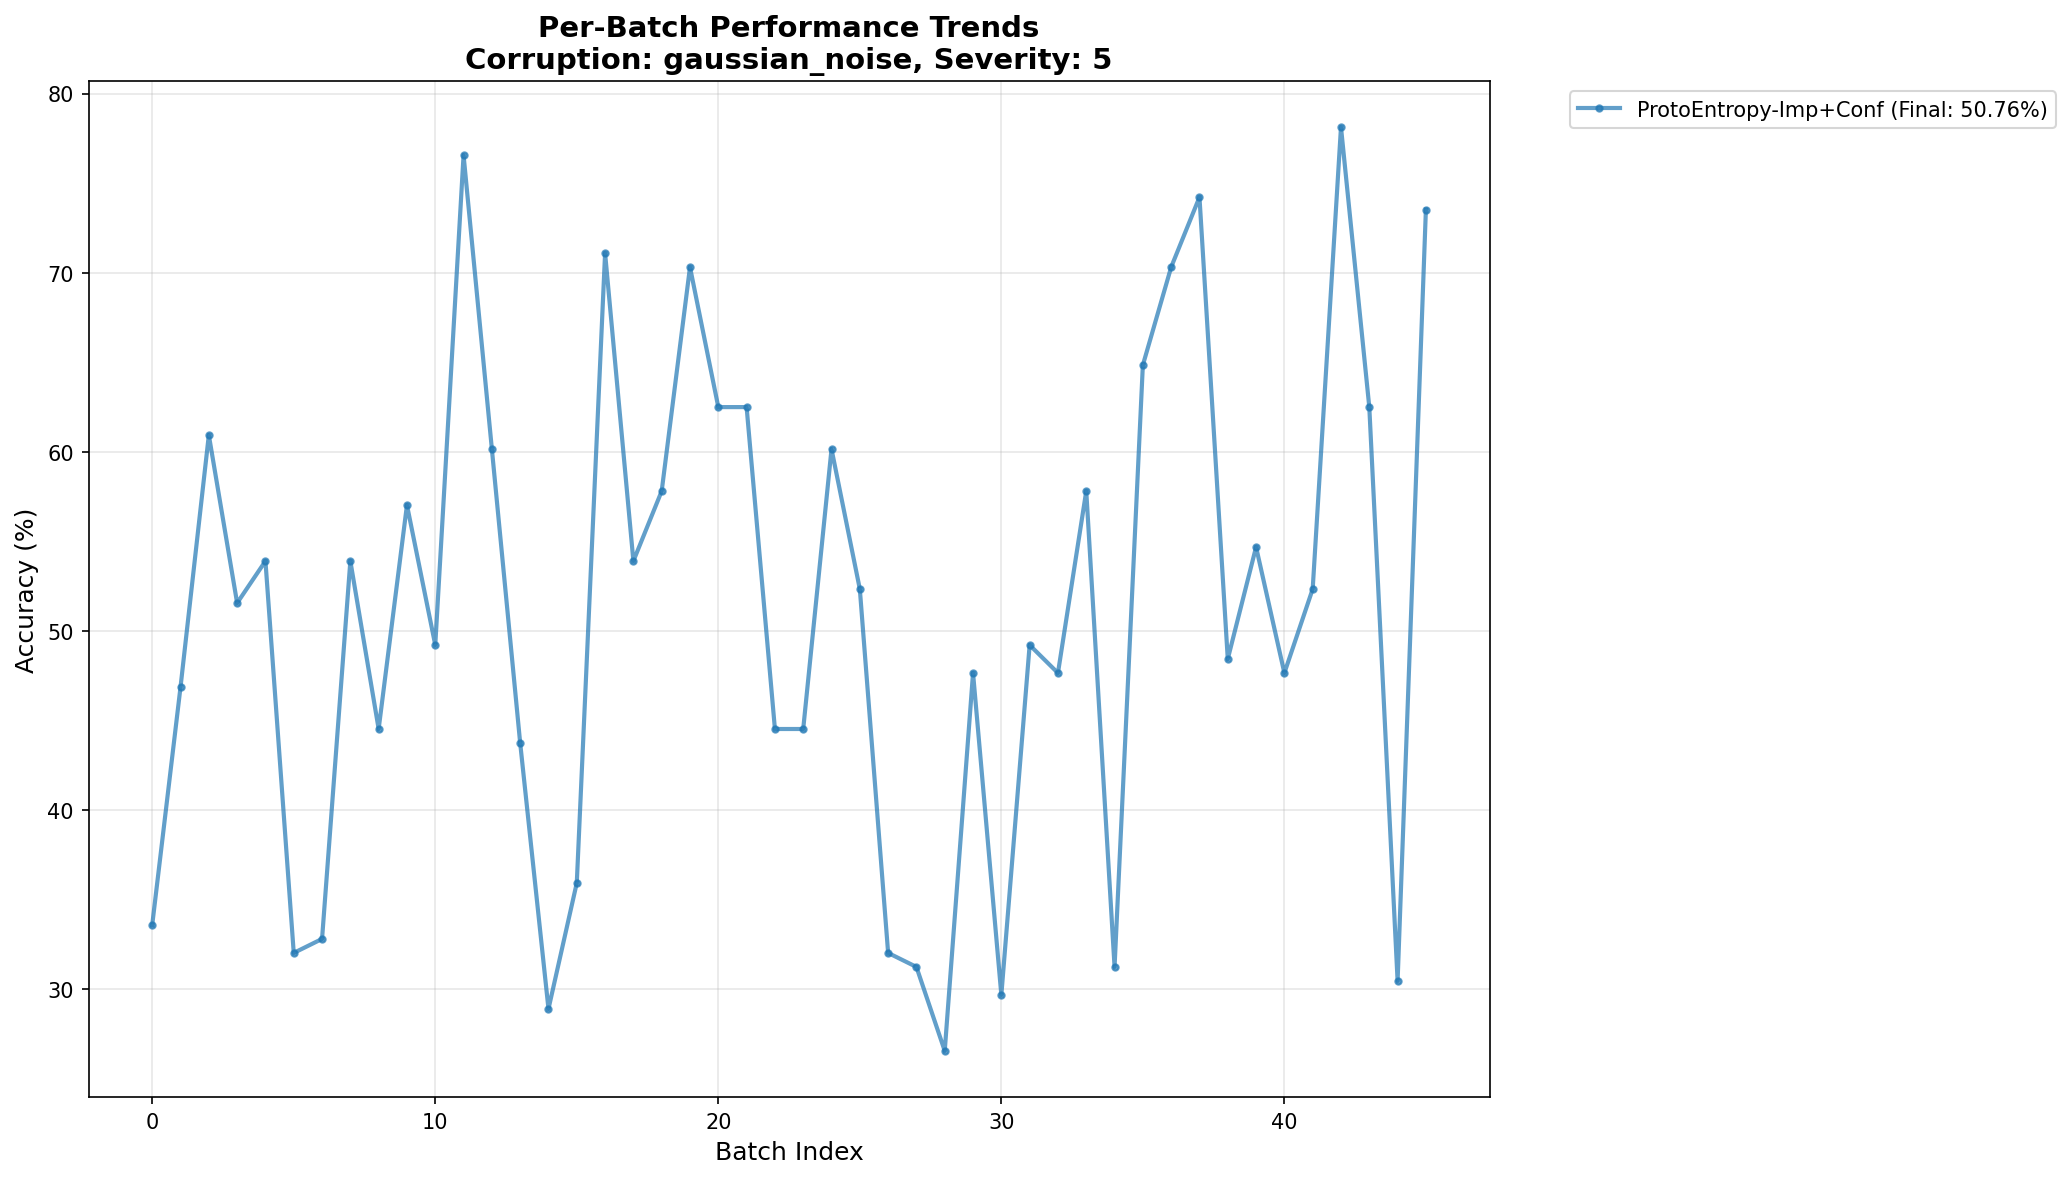
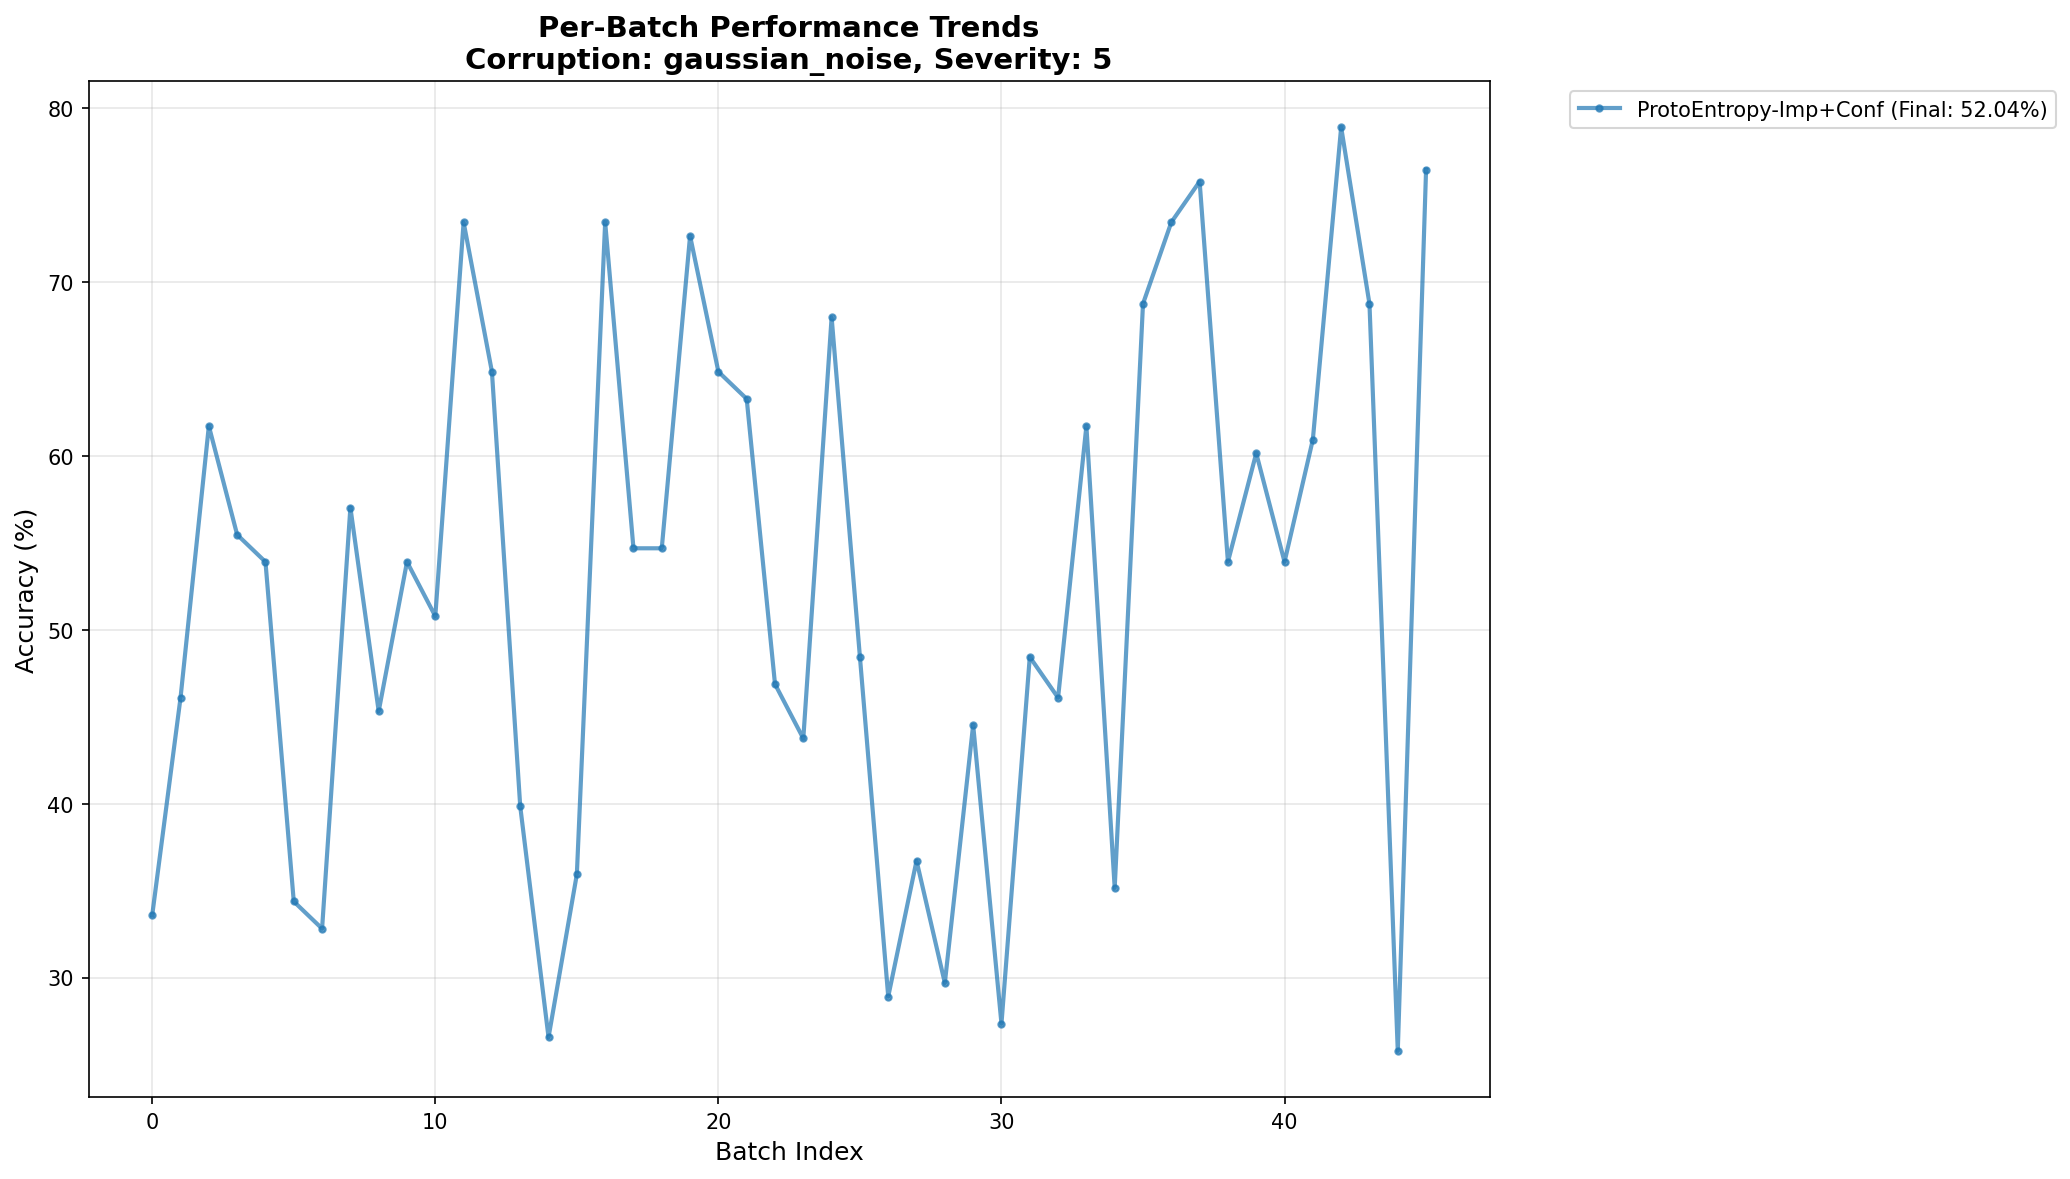
add attention biass updates

diff --git a/run_inference.py b/run_inference.py
@@ -86,7 +86,8 @@ def setup_proto_entropy(model, use_importance=False, use_confidence=False,
                         reset_mode=None, reset_frequency=10, 
                         confidence_threshold=0.7, ema_alpha=0.999,
                         use_geometric_filter=False, geo_filter_threshold=0.3,
-                        consensus_strategy='max', consensus_ratio=0.5):
+                        consensus_strategy='max', consensus_ratio=0.5,
+                        adaptation_mode='layernorm_only'):
     """Set up Prototype Entropy adaptation (without threshold).
     
     Args:
@@ -99,9 +100,13 @@ def setup_proto_entropy(model, use_importance=False, use_confidence=False,
         geo_filter_threshold: Minimum similarity to ANY prototype to be considered reliable
         consensus_strategy: How to aggregate sub-prototypes ('max', 'mean', 'median', 'top_k_mean', 'weighted_mean')
         consensus_ratio: For 'top_k_mean', fraction of sub-prototypes to use
+        adaptation_mode: What parameters to adapt ('layernorm_only', 'layernorm_proto', etc.)
     """
-    model = proto_entropy.configure_model(model)
-    params, param_names = proto_entropy.collect_params(model)
+    model = proto_entropy.configure_model(model, adaptation_mode=adaptation_mode)
+    params, param_names = proto_entropy.collect_params(model, adaptation_mode=adaptation_mode)
+    
+    print(f"Adapting {len(params)} parameter groups: {', '.join(param_names[:5])}...")
+    
     optimizer = setup_optimizer(params)
     proto_model = proto_entropy.ProtoEntropy(
         model,
@@ -385,7 +390,8 @@ def run_unified_inference(model_path, gpu_id='0', corruption=None, severity=1, m
                          use_pre_generated=True, use_clean_fisher=False, proto_threshold=None,
                          reset_mode=None, reset_frequency=10, confidence_threshold=0.7, ema_alpha=0.999,
                          use_geometric_filter=False, geo_filter_threshold=0.3, output_dir='./plots',
-                         consensus_strategy='max', consensus_ratio=0.5):
+                         consensus_strategy='max', consensus_ratio=0.5,
+                         adaptation_mode='layernorm_only'):
     # Set GPU
     os.environ['CUDA_VISIBLE_DEVICES'] = gpu_id
     print(f'Using GPU: {os.environ["CUDA_VISIBLE_DEVICES"]}')
@@ -510,13 +516,15 @@ def run_unified_inference(model_path, gpu_id='0', corruption=None, severity=1, m
         # Setup ProtoEntropy (without threshold)
         filter_info = f", geo_filter={use_geometric_filter}" if use_geometric_filter else ""
         consensus_info = f", consensus={consensus_strategy}" if consensus_strategy != 'max' else ""
-        print(f"Setting up ProtoEntropy (reset_mode={reset_mode}, freq={reset_frequency} batches{filter_info}{consensus_info})...")
+        adapt_info = f", adapt={adaptation_mode}" if adaptation_mode != 'layernorm_only' else ""
+        print(f"Setting up ProtoEntropy (reset_mode={reset_mode}, freq={reset_frequency} batches{filter_info}{consensus_info}{adapt_info})...")
         proto_model = setup_proto_entropy(base_model, use_importance=False, use_confidence=False,
                                          reset_mode=reset_mode, reset_frequency=reset_frequency,
                                          confidence_threshold=confidence_threshold, ema_alpha=ema_alpha,
                                          use_geometric_filter=use_geometric_filter, 
                                          geo_filter_threshold=geo_filter_threshold,
-                                         consensus_strategy=consensus_strategy, consensus_ratio=consensus_ratio)
+                                         consensus_strategy=consensus_strategy, consensus_ratio=consensus_ratio,
+                                         adaptation_mode=adaptation_mode)
 
         if hasattr(proto_model, 'reset_geo_filter_stats'):
             proto_model.reset_geo_filter_stats()
@@ -551,13 +559,15 @@ def run_unified_inference(model_path, gpu_id='0', corruption=None, severity=1, m
         # Setup ProtoEntropy with importance weighting
         filter_info = f", geo_filter={use_geometric_filter}" if use_geometric_filter else ""
         consensus_info = f", consensus={consensus_strategy}" if consensus_strategy != 'max' else ""
-        print(f"Setting up ProtoEntropy+Importance (reset_mode={reset_mode}, freq={reset_frequency}{filter_info}{consensus_info})...")
+        adapt_info = f", adapt={adaptation_mode}" if adaptation_mode != 'layernorm_only' else ""
+        print(f"Setting up ProtoEntropy+Importance (reset_mode={reset_mode}, freq={reset_frequency}{filter_info}{consensus_info}{adapt_info})...")
         proto_model = setup_proto_entropy(base_model, use_importance=True, use_confidence=False,
                                          reset_mode=reset_mode, reset_frequency=reset_frequency,
                                          confidence_threshold=confidence_threshold, ema_alpha=ema_alpha,
                                          use_geometric_filter=use_geometric_filter, 
                                          geo_filter_threshold=geo_filter_threshold,
-                                         consensus_strategy=consensus_strategy, consensus_ratio=consensus_ratio)
+                                         consensus_strategy=consensus_strategy, consensus_ratio=consensus_ratio,
+                                         adaptation_mode=adaptation_mode)
 
         if hasattr(proto_model, 'reset_geo_filter_stats'):
             proto_model.reset_geo_filter_stats()
@@ -592,13 +602,15 @@ def run_unified_inference(model_path, gpu_id='0', corruption=None, severity=1, m
         # Setup ProtoEntropy with confidence weighting
         filter_info = f", geo_filter={use_geometric_filter}" if use_geometric_filter else ""
         consensus_info = f", consensus={consensus_strategy}" if consensus_strategy != 'max' else ""
-        print(f"Setting up ProtoEntropy+Confidence (reset_mode={reset_mode}, freq={reset_frequency}{filter_info}{consensus_info})...")
+        adapt_info = f", adapt={adaptation_mode}" if adaptation_mode != 'layernorm_only' else ""
+        print(f"Setting up ProtoEntropy+Confidence (reset_mode={reset_mode}, freq={reset_frequency}{filter_info}{consensus_info}{adapt_info})...")
         proto_model = setup_proto_entropy(base_model, use_importance=False, use_confidence=True,
                                          reset_mode=reset_mode, reset_frequency=reset_frequency,
                                          confidence_threshold=confidence_threshold, ema_alpha=ema_alpha,
                                          use_geometric_filter=use_geometric_filter, 
                                          geo_filter_threshold=geo_filter_threshold,
-                                         consensus_strategy=consensus_strategy, consensus_ratio=consensus_ratio)
+                                         consensus_strategy=consensus_strategy, consensus_ratio=consensus_ratio,
+                                         adaptation_mode=adaptation_mode)
 
         if hasattr(proto_model, 'reset_geo_filter_stats'):
             proto_model.reset_geo_filter_stats()
@@ -633,13 +645,15 @@ def run_unified_inference(model_path, gpu_id='0', corruption=None, severity=1, m
         # Setup ProtoEntropy with both importance and confidence weighting
         filter_info = f", geo_filter={use_geometric_filter}" if use_geometric_filter else ""
         consensus_info = f", consensus={consensus_strategy}" if consensus_strategy != 'max' else ""
-        print(f"Setting up ProtoEntropy Imp+Conf (reset_mode={reset_mode}, freq={reset_frequency}{filter_info}{consensus_info})...")
+        adapt_info = f", adapt={adaptation_mode}" if adaptation_mode != 'layernorm_only' else ""
+        print(f"Setting up ProtoEntropy Imp+Conf (reset_mode={reset_mode}, freq={reset_frequency}{filter_info}{consensus_info}{adapt_info})...")
         proto_model = setup_proto_entropy(base_model, use_importance=True, use_confidence=True,
                                          reset_mode=reset_mode, reset_frequency=reset_frequency,
                                          confidence_threshold=confidence_threshold, ema_alpha=ema_alpha,
                                          use_geometric_filter=use_geometric_filter, 
                                          geo_filter_threshold=geo_filter_threshold,
-                                         consensus_strategy=consensus_strategy, consensus_ratio=consensus_ratio)
+                                         consensus_strategy=consensus_strategy, consensus_ratio=consensus_ratio,
+                                         adaptation_mode=adaptation_mode)
 
         # Reset stats before evaluation
         if hasattr(proto_model, 'reset_geo_filter_stats'):
@@ -1042,6 +1056,24 @@ if __name__ == '__main__':
         help='For top_k_mean consensus: fraction of sub-prototypes to use (default: 0.5 = top 50%%)'
     )
     
+    parser.add_argument(
+        '--adaptation-mode',
+        type=str,
+        default='layernorm_only',
+        choices=['layernorm_only', 'layernorm_proto', 'layernorm_proto_patch', 
+                 'layernorm_proto_last', 'layernorm_attn_bias', 'layernorm_last_block', 
+                 'full_proto', 'all_adaptive'],
+        help='What parameters to adapt during TTA:\n'
+             'layernorm_only (default) - Only LayerNorms (safest)\n'
+             'layernorm_proto - LayerNorms + Prototype vectors\n'
+             'layernorm_proto_patch - LayerNorms + Prototypes + Patch selection\n'
+             'layernorm_proto_last - LayerNorms + Prototypes + Last layer\n'
+             'layernorm_attn_bias - LayerNorms + Attention biases\n'
+             'layernorm_last_block - LayerNorms + Last transformer blocks\n'
+             'full_proto - Prototypes + Patch select + Last layer (no backbone)\n'
+             'all_adaptive - Everything except backbone features'
+    )
+    
     args = parser.parse_args()
     
     # Handle no-corruption flag
@@ -1059,4 +1091,4 @@ if __name__ == '__main__':
                          use_pre_generated, args.use_clean_fisher, args.proto_threshold,
                          args.reset_mode, args.reset_frequency, args.confidence_threshold, args.ema_alpha,
                          args.use_geometric_filter, args.geo_filter_threshold, args.output_dir,
-                         args.consensus_strategy, args.consensus_ratio)
+                         args.consensus_strategy, args.consensus_ratio, args.adaptation_mode)

diff --git a/proto_entropy.py b/proto_entropy.py
@@ -495,41 +495,129 @@ class ProtoEntropyEATA(nn.Module):
 
         return logits, min_distances, similarities
 # Helper functions
-def collect_params(model):
-    """Collect the affine scale + shift parameters from batch norms.
-
-    Walk the model's modules and collect all batch normalization parameters.
-    Return the parameters and their names.
-
-    Note: other choices of parameterization are possible!
+def collect_params(model, adaptation_mode='layernorm_only'):
+    """Collect parameters for test-time adaptation.
+    
+    Args:
+        model: The ProtoViT model
+        adaptation_mode: What to adapt during TTA
+            'layernorm_only' - Only LayerNorm/BatchNorm (default, safest)
+            'layernorm_proto' - LayerNorms + Prototype vectors
+            'layernorm_proto_patch' - LayerNorms + Prototypes + Patch select
+            'layernorm_proto_last' - LayerNorms + Prototypes + Last layer
+            'layernorm_attn_bias' - LayerNorms + Attention biases in backbone
+            'layernorm_last_block' - LayerNorms + Last transformer block
+            'full_proto' - Prototypes + Patch select + Last layer (no backbone)
+            'all_adaptive' - Everything except frozen backbone features
+    
+    Returns:
+        params: List of parameters to optimize
+        names: List of parameter names
     """
     params = []
     names = []
-    for nm, m in model.named_modules():
-        if isinstance(m, (nn.BatchNorm2d, nn.LayerNorm)):
-            for np, p in m.named_parameters():
-                if np in ['weight', 'bias']:  # weight is scale, bias is shift
-                    params.append(p)
-                    names.append(f"{nm}.{np}")
+    
+    # Always include LayerNorm/BatchNorm if mode includes 'layernorm'
+    if 'layernorm' in adaptation_mode:
+        for nm, m in model.named_modules():
+            if isinstance(m, (nn.BatchNorm2d, nn.LayerNorm)):
+                for np, p in m.named_parameters():
+                    if np in ['weight', 'bias']:
+                        params.append(p)
+                        names.append(f"{nm}.{np}")
+    
+    # Add prototype vectors
+    if 'proto' in adaptation_mode or adaptation_mode == 'all_adaptive':
+        if hasattr(model, 'prototype_vectors'):
+            params.append(model.prototype_vectors)
+            names.append('prototype_vectors')
+    
+    # Add patch selection parameters
+    if 'patch' in adaptation_mode or adaptation_mode == 'all_adaptive':
+        if hasattr(model, 'patch_select'):
+            params.append(model.patch_select)
+            names.append('patch_select')
+    
+    # Add last layer (classification head)
+    if 'last' in adaptation_mode or adaptation_mode == 'all_adaptive':
+        if hasattr(model, 'last_layer'):
+            for np, p in model.last_layer.named_parameters():
+                params.append(p)
+                names.append(f"last_layer.{np}")
+    
+    # Add attention biases from backbone
+    if 'attn_bias' in adaptation_mode:
+        for nm, m in model.named_modules():
+            if 'attn' in nm.lower() or 'attention' in nm.lower():
+                for np, p in m.named_parameters():
+                    if 'bias' in np:  # Only biases, not full weights
+                        params.append(p)
+                        names.append(f"{nm}.{np}")
+    
+    # Add last transformer block (more aggressive)
+    if 'last_block' in adaptation_mode:
+        for nm, p in model.named_parameters():
+            # Assuming blocks are named like 'features.blocks.11.*' (last block)
+            if 'blocks.11' in nm or 'blocks.10' in nm:  # Last 2 blocks
+                params.append(p)
+                names.append(nm)
+    
     return params, names
 
 
-def configure_model(model):
-    """Configure model for use with ProtoEntropy adaptation."""
+def configure_model(model, adaptation_mode='layernorm_only'):
+    """Configure model for use with ProtoEntropy adaptation.
+    
+    Args:
+        adaptation_mode: What parameters to enable for adaptation (same as collect_params)
+    """
     # train mode, because ProtoEntropy optimizes the model to minimize entropy
     model.train()
     # disable grad, to (re-)enable only what ProtoEntropy updates
     model.requires_grad_(False)
-    # configure norm for ProtoEntropy updates: enable grad + force batch statistics
-    for m in model.modules():
-        if isinstance(m, nn.BatchNorm2d):
-            m.requires_grad_(True)
-            # force use of batch stats in train and eval modes
-            m.track_running_stats = False
-            m.running_mean = None
-            m.running_var = None
-        elif isinstance(m, nn.LayerNorm):
-            m.requires_grad_(True)
+    
+    # Configure LayerNorms/BatchNorms
+    if 'layernorm' in adaptation_mode:
+        for m in model.modules():
+            if isinstance(m, nn.BatchNorm2d):
+                m.requires_grad_(True)
+                # force use of batch stats in train and eval modes
+                m.track_running_stats = False
+                m.running_mean = None
+                m.running_var = None
+            elif isinstance(m, nn.LayerNorm):
+                m.requires_grad_(True)
+    
+    # Enable prototype vectors
+    if 'proto' in adaptation_mode or adaptation_mode == 'all_adaptive':
+        if hasattr(model, 'prototype_vectors'):
+            model.prototype_vectors.requires_grad = True
+    
+    # Enable patch selection
+    if 'patch' in adaptation_mode or adaptation_mode == 'all_adaptive':
+        if hasattr(model, 'patch_select'):
+            model.patch_select.requires_grad = True
+    
+    # Enable last layer
+    if 'last' in adaptation_mode or adaptation_mode == 'all_adaptive':
+        if hasattr(model, 'last_layer'):
+            for p in model.last_layer.parameters():
+                p.requires_grad = True
+    
+    # Enable attention biases
+    if 'attn_bias' in adaptation_mode:
+        for nm, m in model.named_modules():
+            if 'attn' in nm.lower() or 'attention' in nm.lower():
+                for np, p in m.named_parameters():
+                    if 'bias' in np:
+                        p.requires_grad = True
+    
+    # Enable last transformer blocks
+    if 'last_block' in adaptation_mode:
+        for nm, p in model.named_parameters():
+            if 'blocks.11' in nm or 'blocks.10' in nm:
+                p.requires_grad = True
+    
     return model
 
 
